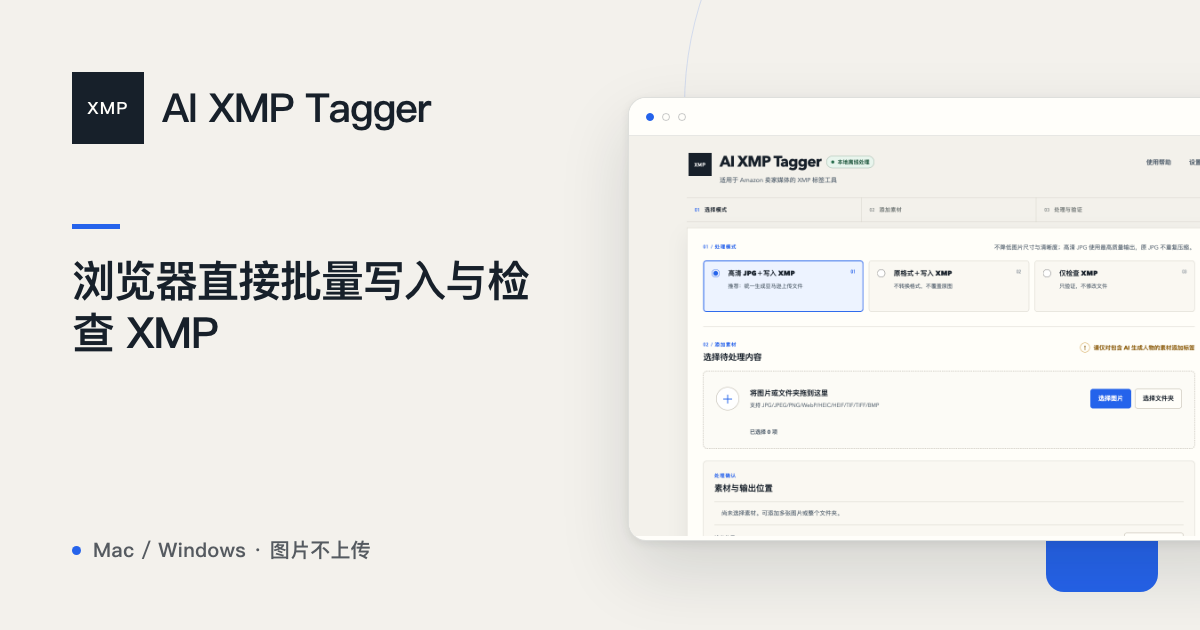
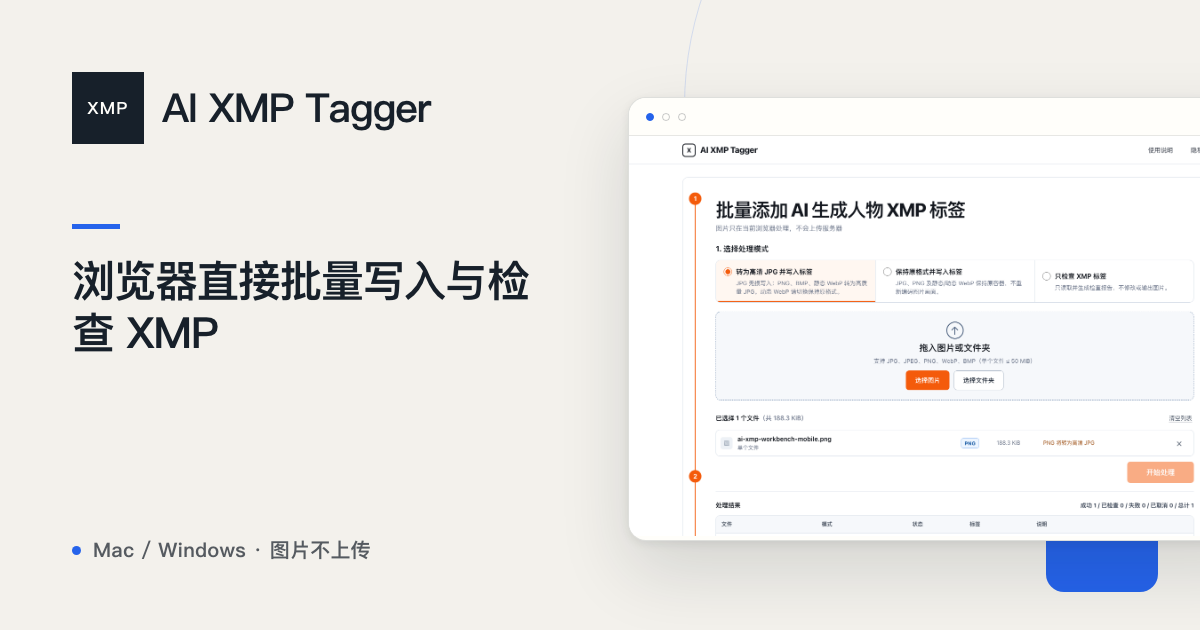
fix: show the browser app in public preview assets

diff --git a/social-card.html b/social-card.html
@@ -191,9 +191,9 @@
         </div>
         <img
           class="preview"
-          src="./public/images/app-home.png"
+          src="./public/images/browser-workbench.png"
           width="1440"
-          height="900"
+          height="1560"
           alt="AI XMP Tagger 真实应用首页"
         >
       </section>
